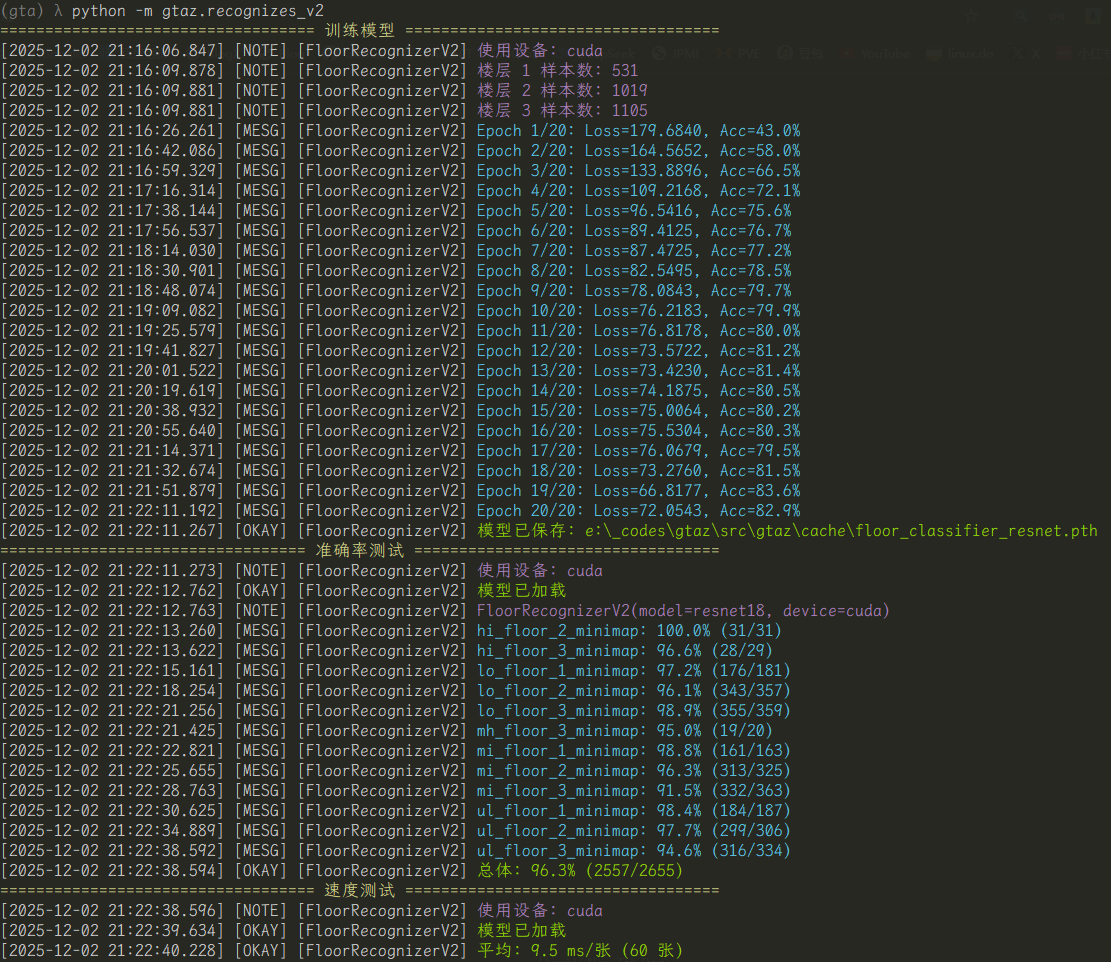
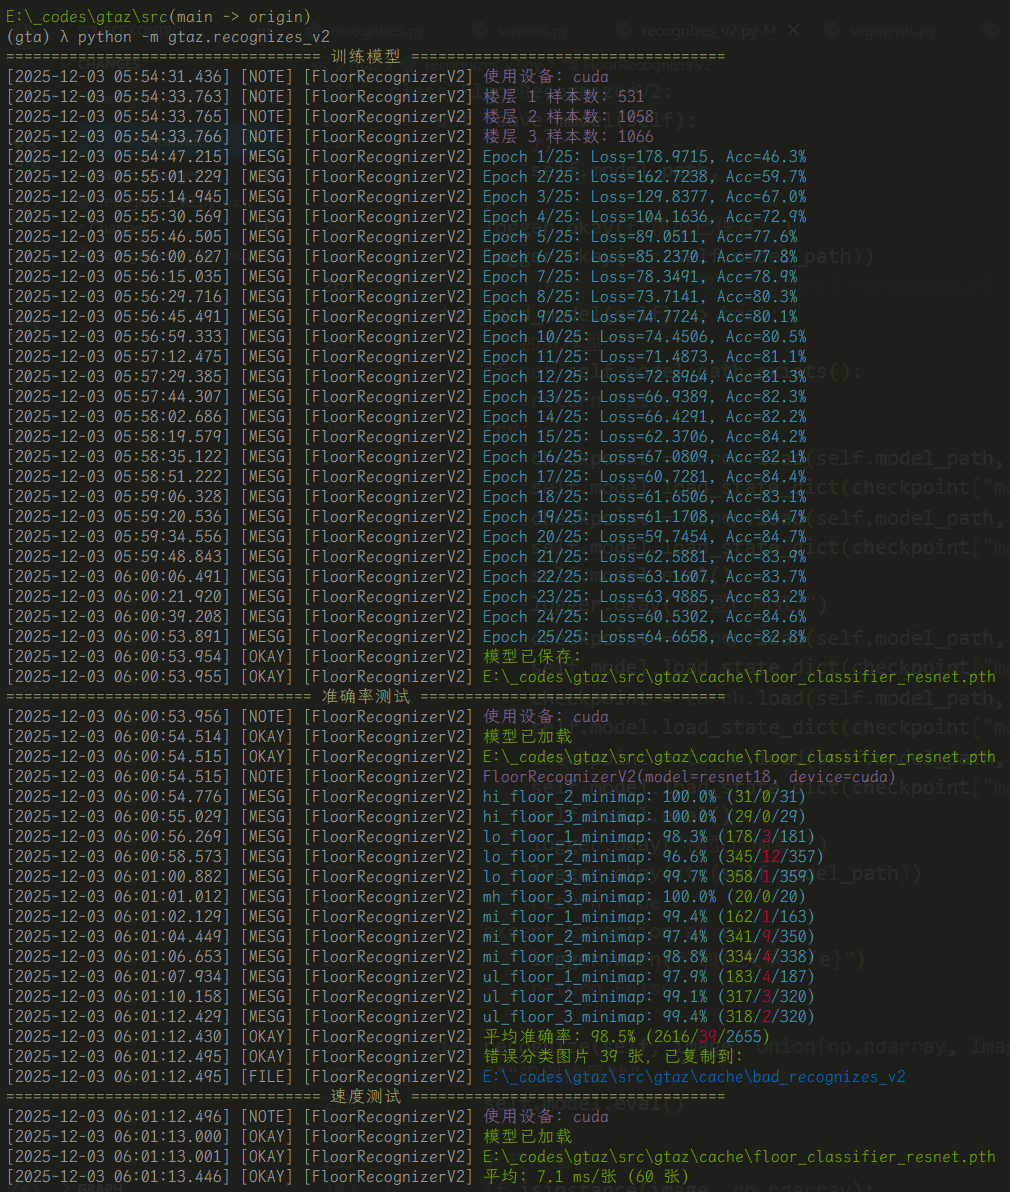
:zap: [Enhance] recognizes_v2: collect and save error samples, and prettify logging

diff --git a/src/gtaz/recognizes_v2.py b/src/gtaz/recognizes_v2.py
@@ -5,13 +5,14 @@
 
 import random
 import numpy as np
+import shutil
 import sys
 import time
 
 from pathlib import Path
 from typing import Optional, Union
 from dataclasses import dataclass, field
-from tclogger import TCLogger, add_fills
+from tclogger import TCLogger, logstr, add_fills
 from PIL import Image
 
 import torch
@@ -33,6 +34,18 @@ CACHE_DIR = MODULE_DIR / "cache"
 def log_header(header: str):
     header_str = add_fills(header, "=", total_width=80)
     logger.hint(f"{header_str}", use_prefix=False)
+
+
+def logstr_count(right: int, wrong: int, total: int) -> str:
+    ratio = right / total if total > 0 else 0
+    right_str = logstr.okay(right)
+    if wrong > 0:
+        wrong_str = logstr.warn(wrong)
+    else:
+        wrong_str = logstr.okay(wrong)
+    total_str = logstr.mesg(total)
+    ratio_str = f"{ratio:.1%}"
+    return f"{ratio_str} ({right_str}/{wrong_str}/{total_str})"
 
 
 @dataclass
@@ -205,7 +218,7 @@ class FloorRecognizerV2:
         self.model.train()
         for epoch in range(epochs):
             total_loss = 0.0
-            correct = 0
+            right = 0
             total = 0
 
             for images, labels in dataloader:
@@ -220,11 +233,11 @@ class FloorRecognizerV2:
 
                 total_loss += loss.item()
                 _, predicted = outputs.max(1)
-                correct += predicted.eq(labels).sum().item()
+                right += predicted.eq(labels).sum().item()
                 total += labels.size(0)
 
             scheduler.step()
-            acc = correct / total if total > 0 else 0
+            acc = right / total if total > 0 else 0
             logger.mesg(
                 f"Epoch {epoch+1}/{epochs}: Loss={total_loss:.4f}, Acc={acc:.1%}"
             )
@@ -243,7 +256,8 @@ class FloorRecognizerV2:
             },
             self.model_path,
         )
-        logger.okay(f"模型已保存: {self.model_path}")
+        logger.okay(f"模型已保存:")
+        logger.okay(str(self.model_path))
 
     def load_model(self) -> bool:
         """加载模型"""
@@ -253,7 +267,8 @@ class FloorRecognizerV2:
             checkpoint = torch.load(self.model_path, map_location=self.device)
             self.model.load_state_dict(checkpoint["model_state_dict"])
             self.model.eval()
-            logger.okay("模型已加载")
+            logger.okay("模型已加载:")
+            logger.okay(str(self.model_path))
             return True
         except Exception as e:
             logger.warn(f"加载失败: {e}")
@@ -303,23 +318,42 @@ class FloorRecognizerV2:
             logger.warn(f"读取图像失败: {e}")
             return None
 
-    def evaluate(self, test_dir: Path, expected_floor: int) -> dict:
-        """评估准确率"""
+    def evaluate(
+        self, test_dir: Path, expected_floor: int, collect_errors: bool = False
+    ) -> dict:
+        """评估准确率
+
+        Args:
+            test_dir: 测试目录
+            expected_floor: 期望的楼层
+            collect_errors: 是否收集错误分类的样本
+
+        Returns:
+            包含 accuracy, total, right, errors (如果 collect_errors=True) 的字典
+        """
         files = list(Path(test_dir).glob("*.jpg"))
         if not files:
-            return {"accuracy": 0, "total": 0, "correct": 0}
+            return {"accuracy": 0, "total": 0, "right": 0, "errors": []}
+        right = 0
+        errors = []  # [(file_path, predicted_floor), ...]
 
-        correct = sum(
-            1
-            for f in files
-            if (r := self.recognize_file(f)) and r.floor == expected_floor
-        )
-        return {
+        for f in files:
+            r = self.recognize_file(f)
+            if r:
+                if r.floor == expected_floor:
+                    right += 1
+                elif collect_errors:
+                    errors.append((f, r.floor))
+
+        result = {
             "expected_floor": expected_floor,
             "total": len(files),
-            "correct": correct,
-            "accuracy": correct / len(files),
+            "right": right,
+            "accuracy": right / len(files) if files else 0,
         }
+        if collect_errors:
+            result["errors"] = errors
+        return result
 
     def __repr__(self) -> str:
         return f"FloorRecognizerV2(model={self.model_name}, device={self.device})"
@@ -335,7 +369,7 @@ def test_train():
     log_header("训练模型")
 
     recognizer = FloorRecognizerV2()
-    recognizer.train(epochs=20, batch_size=16, lr=1e-4)
+    recognizer.train(epochs=25, batch_size=16, lr=1e-4)
 
 
 def test_accuracy():
@@ -345,27 +379,52 @@ def test_accuracy():
     recognizer = FloorRecognizerV2()
     if not recognizer.load_model():
         logger.warn("未找到模型，先训练...")
-        recognizer.train(epochs=20)
+        recognizer.train(epochs=25)
 
     logger.note(f"{recognizer}")
 
     locations_dir = CACHE_DIR / "locations"
+    bad_dir = CACHE_DIR / "bad_recognizes_v2"
     results = []
+    all_errors = []
 
     for d in sorted(locations_dir.glob("*_minimap")):
         for floor in range(1, 4):
             if f"floor_{floor}" in d.name:
-                r = recognizer.evaluate(d, floor)
+                r = recognizer.evaluate(d, floor, collect_errors=True)
+                right = r["right"]
+                total = r["total"]
+                wrong = total - right
                 results.append(r)
-                logger.mesg(
-                    f"{d.name}: {r['accuracy']:.1%} ({r['correct']}/{r['total']})"
-                )
+                logger.mesg(f"{d.name}: {logstr_count(right, wrong, total)}")
+                # 收集错误样本，附带原始目录名
+                if r.get("errors"):
+                    for err_path, pred_floor in r["errors"]:
+                        all_errors.append((err_path, pred_floor, d.name))
                 break
 
     if results:
         total = sum(r["total"] for r in results)
-        correct = sum(r["correct"] for r in results)
-        logger.okay(f"总体: {correct/total:.1%} ({correct}/{total})")
+        right = sum(r["right"] for r in results)
+        wrong = total - right
+        logger.okay(f"平均准确率: {logstr_count(right, wrong, total)}")
+
+    # 复制错误分类的图片到 bad_recognizes_v2
+    if all_errors:
+        bad_dir.mkdir(parents=True, exist_ok=True)
+        # 清空旧的错误文件
+        for old_file in bad_dir.glob("*.jpg"):
+            old_file.unlink()
+
+        for err_path, pred_floor, folder_name in all_errors:
+            folder_base = folder_name.replace("_minimap", "")
+            # 新文件名: <original_folder_without_minimap>_as_<result_floor_class>_<original_filename>.jpg
+            new_name = f"{folder_base}_as_{pred_floor}_{err_path.name}"
+            new_path = bad_dir / new_name
+            shutil.copy2(err_path, new_path)
+
+        logger.okay(f"错误分类图片 {len(all_errors)} 张，已复制到:")
+        logger.file(str(bad_dir))
 
 
 def stratified_k_fold(
@@ -484,13 +543,13 @@ def test_cross_validation():
 
         # 验证
         recognizer.model.eval()
-        correct = 0
+        right = 0
         for path, label in val_samples:
             result = recognizer.recognize_file(path)
             if result and result.floor == label + 1:
-                correct += 1
+                right += 1
 
-        acc = correct / len(val_samples)
+        acc = right / len(val_samples)
         fold_results.append(acc)
         logger.mesg(f"Fold {fold + 1} Accuracy: {acc:.1%}")
 
@@ -506,7 +565,7 @@ def test_speed():
     recognizer = FloorRecognizerV2()
     if not recognizer.load_model():
         logger.warn("未找到模型，先训练...")
-        recognizer.train(epochs=10)
+        recognizer.train(epochs=25)
 
     # 收集测试图像
     test_files = []
